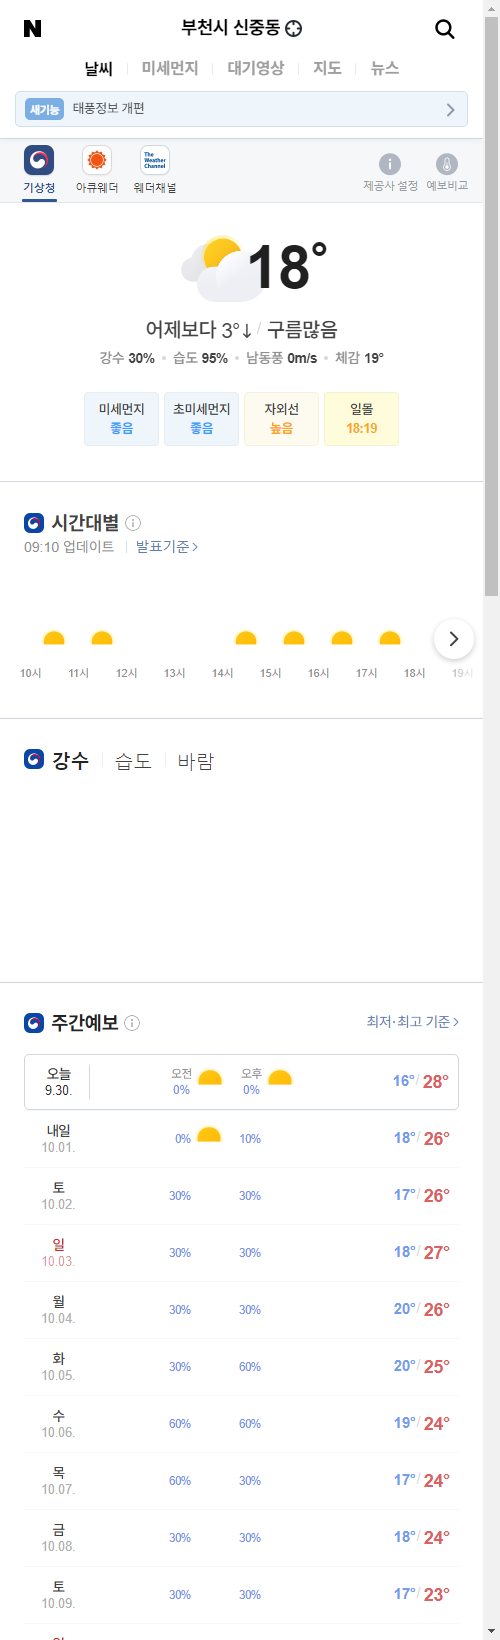
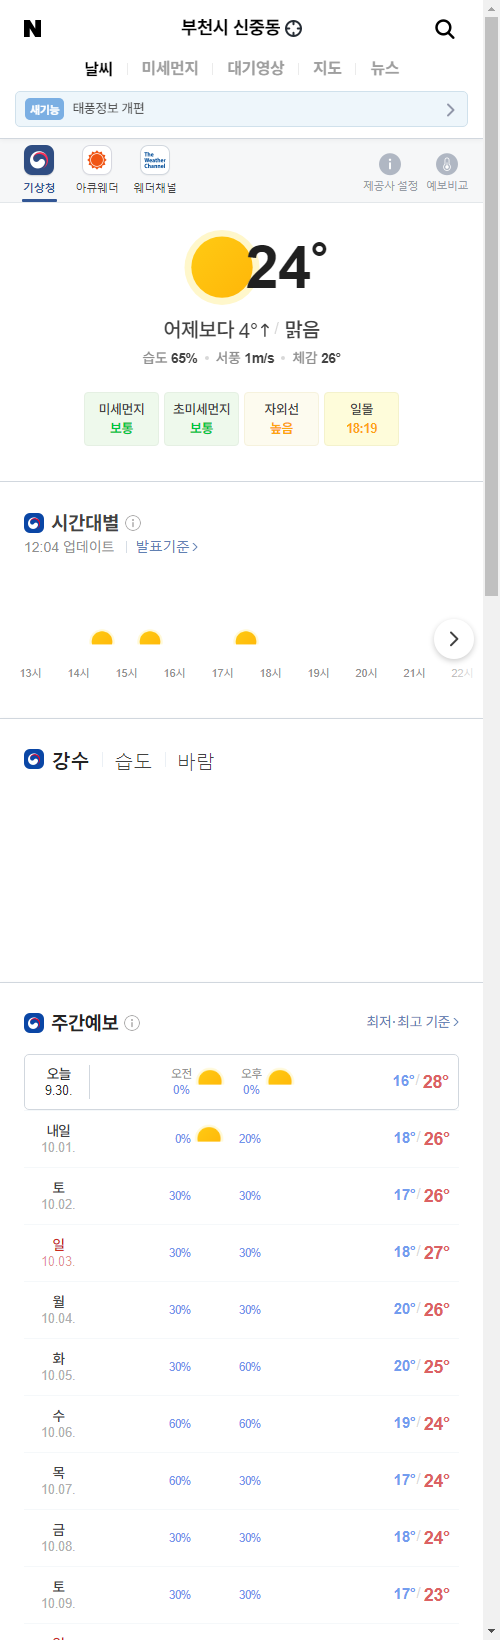
update result

diff --git a/README.md b/README.md
@@ -1,5 +1,5 @@
-##  2021-09-30 09:17:15   목요일 
-##### 날씨   -   어제보다 3° 낮아요구름많음  
+##  2021-09-30 12:07:33   목요일 
+##### 날씨   -   어제보다 4° 높아요맑음  
 <center><img src="../img/naver_weather_week.png"></center>
 ----
 ----
@@ -16,14 +16,14 @@
 <tr align = "right" > <td>DOW</td><td>34,390.72</td><td>90.73</td><td><font size="3" color="red" >0.26%</font></td><td><font size="3" color="black">0</font></td><td><font size="3" color="black">0</font></td><td>0</td>  </tr>
 <tr align = "right" > <td>NASDAQ</td><td>14,512.44</td><td>-34.24</td><td><font size="3" color="blue" >-0.24%</font></td><td><font size="3" color="black">0</font></td><td><font size="3" color="black">0</font></td><td>0</td>  </tr>
 <tr align = "right" > <td>S&P</td><td>4,359.46</td><td>6.83</td><td><font size="3" color="red" >0.16%</font></td><td><font size="3" color="black">0</font></td><td><font size="3" color="black">0</font></td><td>0</td>  </tr>
-<tr align = "right" > <td>SHANHAI</td><td>3,536.29</td><td>-65.92</td><td><font size="3" color="blue" >-1.83%</font></td><td><font size="3" color="black">0</font></td><td><font size="3" color="black">0</font></td><td>0</td>  </tr>
+<tr align = "right" > <td>SHANHAI</td><td>3,548.84</td><td>12.55</td><td><font size="3" color="red" >0.35%</font></td><td><font size="3" color="black">0</font></td><td><font size="3" color="black">0</font></td><td>0</td>  </tr>
 <tr align = "right" > <td>INDIA</td><td>59,413.27</td><td>-254.33</td><td><font size="3" color="blue" >-0.43%</font></td><td><font size="3" color="black">0</font></td><td><font size="3" color="black">0</font></td><td>0</td>  </tr>
 </table>
 ----
 ##### 시장
 <table border="1" bordercolor="blue" align = "center" >
 <tr align = "right" > <td>Item</td><td>Price</td><td>Diff</td><td>Rate</td><td>Buy</td><td>Sell</td><td>...</td>  </tr>
-<tr align = "right" > <td>USD</td><td>1,185.0</td><td>0.8</td><td><font size="3" color="red">0.07%</font></td><td><font size="3" color="black">1,110</font></td><td><font size="3" color="black">0</font></td><td>0</td>  </tr>
+<tr align = "right" > <td>USD</td><td>1,183.0</td><td>-1.3</td><td><font size="3" color="blue">-0.11%</font></td><td><font size="3" color="black">1,110</font></td><td><font size="3" color="black">0</font></td><td>0</td>  </tr>
 <tr align = "right" > <td>WTI</td><td>74.83</td><td>-0.46</td><td><font size="3" color="blue">-0.61%</font></td><td><font size="3" color="black">29.0</font></td><td><font size="3" color="black">0</font></td><td>0</td>  </tr>
 <tr align = "right" > <td>GOLD</td><td>1,721.0</td><td>-14.4</td><td><font size="3" color="blue">-0.82%</font></td><td><font size="3" color="black">0</font></td><td><font size="3" color="black">0</font></td><td>0</td>  </tr>
 </table>
@@ -31,33 +31,33 @@
 ##### 주가
 <table border="1" bordercolor="blue" align = "center" >
 <tr align = "right" > <td>Item</td><td>Price</td><td>Diff</td><td>Rate</td><td>Purchased</td><td>Sell</td><td>Buy</td>  </tr>
-<tr align = "right" > <td>한국 전력</td><td>23,550</td><td>-100</td><td><font size="3" color="blue">-0.42%</font></td><td>25,720</td><td><font size="3" color="black">27,700</font></td><td><font size="3" color="black">20,700</font></td>  </tr>
-<tr align = "right" > <td>삼성엔지니어.</td><td>26,650</td><td>500</td><td><font size="3" color="red">1.91%</font></td><td>18,935</td><td><font size="3" color="black">20,000</font></td><td><font size="3" color="black">8,000</font></td>  </tr>
-<tr align = "right" > <td>CJ CGV</td><td>29,250</td><td>-350</td><td><font size="3" color="blue">-1.18%</font></td><td>34,895</td><td><font size="3" color="black">36,000</font></td><td><font size="3" color="black">0</font></td>  </tr>
+<tr align = "right" > <td>한국 전력</td><td>23,500</td><td>-150</td><td><font size="3" color="blue">-0.63%</font></td><td>25,720</td><td><font size="3" color="black">27,700</font></td><td><font size="3" color="black">20,700</font></td>  </tr>
+<tr align = "right" > <td>삼성엔지니어.</td><td>25,550</td><td>-600</td><td><font size="3" color="blue">-2.29%</font></td><td>18,935</td><td><font size="3" color="black">20,000</font></td><td><font size="3" color="black">8,000</font></td>  </tr>
+<tr align = "right" > <td>CJ CGV</td><td>29,750</td><td>150</td><td><font size="3" color="red">0.51%</font></td><td>34,895</td><td><font size="3" color="black">36,000</font></td><td><font size="3" color="black">0</font></td>  </tr>
 <tr align = "right" > <td>아모레퍼시픽</td><td>178,500</td><td>-1,500</td><td><font size="3" color="blue">-0.83%</font></td><td>180,000</td><td><font size="3" color="black">240,000</font></td><td><font size="3" color="black">130,000</font></td>  </tr>
-<tr align = "right" > <td>한화</td><td>33,950</td><td>-200</td><td><font size="3" color="blue">-0.59%</font></td><td>25,550</td><td><font size="3" color="black">26,250</font></td><td><font size="3" color="black">26,250</font></td>  </tr>
-<tr align = "right" > <td>NAVER</td><td>381,500</td><td>-5,500</td><td><font size="3" color="blue">-1.42%</font></td><td>147,200</td><td><font size="3" color="black">386,000</font></td><td><font size="3" color="black">286,000</font></td>  </tr>
-<tr align = "right" > <td>LG 화학우</td><td>373,000</td><td>-3,500</td><td><font size="3" color="blue">-0.93%</font></td><td>202,490</td><td><font size="3" color="black">384,000</font></td><td><font size="3" color="orangered">384,000</font></td>  </tr>
-<tr align = "right" > <td>스튜디오드래.</td><td>87,600</td><td>0</td><td><font size="3" color="black">0.0%</font></td><td>81,243</td><td><font size="3" color="black">85,200</font></td><td><font size="3" color="black">85,200</font></td>  </tr>
-<tr align = "right" > <td>QV미국IT</td><td>30,945</td><td>-125</td><td><font size="3" color="blue">-0.4%</font></td><td>0</td><td><font size="3" color="black">30,000</font></td><td><font size="3" color="black">20,000</font></td>  </tr>
-<tr align = "right" > <td>삼성 전자우</td><td>69,300</td><td>-1,200</td><td><font size="3" color="blue">-1.7%</font></td><td>60,675</td><td><font size="3" color="black">76,000</font></td><td><font size="3" color="black">55,000</font></td>  </tr>
-<tr align = "right" > <td>LS</td><td>63,600</td><td>0</td><td><font size="3" color="black">0.0%</font></td><td>71,900</td><td><font size="3" color="black">82,000</font></td><td><font size="3" color="black">60,000</font></td>  </tr>
-<tr align = "right" > <td>한화에어로스.</td><td>48,650</td><td>250</td><td><font size="3" color="red">0.52%</font></td><td>25,700</td><td><font size="3" color="black">30,000</font></td><td><font size="3" color="black">24,000</font></td>  </tr>
-<tr align = "right" > <td>세틀뱅크</td><td>31,250</td><td>0</td><td><font size="3" color="black">0.0%</font></td><td>35,078</td><td><font size="3" color="black">40,000</font></td><td><font size="3" color="black">25,000</font></td>  </tr>
-<tr align = "right" > <td>한화시스템.</td><td>17,400</td><td>-250</td><td><font size="3" color="blue">-1.42%</font></td><td>16,875</td><td><font size="3" color="black">30,000</font></td><td><font size="3" color="black">14,000</font></td>  </tr>
-<tr align = "right" > <td>카카오</td><td>115,000</td><td>-1,500</td><td><font size="3" color="blue">-1.29%</font></td><td>405,500</td><td><font size="3" color="black">440,000</font></td><td><font size="3" color="orangered">400,000</font></td>  </tr>
-<tr align = "right" > <td>호텔 신라</td><td>85,700</td><td>-800</td><td><font size="3" color="blue">-0.92%</font></td><td>88,650</td><td><font size="3" color="black">100,000</font></td><td><font size="3" color="black">70,000</font></td>  </tr>
-<tr align = "right" > <td>S-Oil</td><td>108,000</td><td>-4,000</td><td><font size="3" color="blue">-3.57%</font></td><td>62,842</td><td><font size="3" color="black">100,000</font></td><td><font size="3" color="black">50,000</font></td>  </tr>
-<tr align = "right" > <td>LG전자</td><td>125,500</td><td>-4,000</td><td><font size="3" color="blue">-3.09%</font></td><td>82,022</td><td><font size="3" color="black">100,000</font></td><td><font size="3" color="black">60,000</font></td>  </tr>
-<tr align = "right" > <td>KT&G</td><td>80,600</td><td>100</td><td><font size="3" color="red">0.12%</font></td><td>79,700</td><td><font size="3" color="black">100,000</font></td><td><font size="3" color="black">70,000</font></td>  </tr>
-<tr align = "right" > <td>지역난방공사</td><td>44,200</td><td>-750</td><td><font size="3" color="blue">-1.67%</font></td><td>43,590</td><td><font size="3" color="black">60,000</font></td><td><font size="3" color="black">30,000</font></td>  </tr>
+<tr align = "right" > <td>한화</td><td>34,250</td><td>100</td><td><font size="3" color="red">0.29%</font></td><td>25,550</td><td><font size="3" color="black">26,250</font></td><td><font size="3" color="black">26,250</font></td>  </tr>
+<tr align = "right" > <td>NAVER</td><td>388,000</td><td>1,000</td><td><font size="3" color="red">0.26%</font></td><td>147,200</td><td><font size="3" color="black">386,000</font></td><td><font size="3" color="black">286,000</font></td>  </tr>
+<tr align = "right" > <td>LG 화학우</td><td>371,500</td><td>-5,000</td><td><font size="3" color="blue">-1.33%</font></td><td>202,490</td><td><font size="3" color="black">384,000</font></td><td><font size="3" color="orangered">384,000</font></td>  </tr>
+<tr align = "right" > <td>스튜디오드래.</td><td>89,300</td><td>1,700</td><td><font size="3" color="red">1.94%</font></td><td>81,243</td><td><font size="3" color="black">85,200</font></td><td><font size="3" color="black">85,200</font></td>  </tr>
+<tr align = "right" > <td>QV미국IT</td><td>31,005</td><td>-65</td><td><font size="3" color="blue">-0.21%</font></td><td>0</td><td><font size="3" color="black">30,000</font></td><td><font size="3" color="black">20,000</font></td>  </tr>
+<tr align = "right" > <td>삼성 전자우</td><td>69,500</td><td>-1,000</td><td><font size="3" color="blue">-1.42%</font></td><td>60,675</td><td><font size="3" color="black">76,000</font></td><td><font size="3" color="black">55,000</font></td>  </tr>
+<tr align = "right" > <td>LS</td><td>63,500</td><td>-100</td><td><font size="3" color="blue">-0.16%</font></td><td>71,900</td><td><font size="3" color="black">82,000</font></td><td><font size="3" color="black">60,000</font></td>  </tr>
+<tr align = "right" > <td>한화에어로스.</td><td>49,250</td><td>850</td><td><font size="3" color="red">1.76%</font></td><td>25,700</td><td><font size="3" color="black">30,000</font></td><td><font size="3" color="black">24,000</font></td>  </tr>
+<tr align = "right" > <td>세틀뱅크</td><td>31,300</td><td>50</td><td><font size="3" color="red">0.16%</font></td><td>35,078</td><td><font size="3" color="black">40,000</font></td><td><font size="3" color="black">25,000</font></td>  </tr>
+<tr align = "right" > <td>한화시스템.</td><td>17,500</td><td>-150</td><td><font size="3" color="blue">-0.85%</font></td><td>16,875</td><td><font size="3" color="black">30,000</font></td><td><font size="3" color="black">14,000</font></td>  </tr>
+<tr align = "right" > <td>카카오</td><td>119,000</td><td>2,500</td><td><font size="3" color="red">2.15%</font></td><td>405,500</td><td><font size="3" color="black">440,000</font></td><td><font size="3" color="orangered">400,000</font></td>  </tr>
+<tr align = "right" > <td>호텔 신라</td><td>86,300</td><td>-200</td><td><font size="3" color="blue">-0.23%</font></td><td>88,650</td><td><font size="3" color="black">100,000</font></td><td><font size="3" color="black">70,000</font></td>  </tr>
+<tr align = "right" > <td>S-Oil</td><td>111,500</td><td>-500</td><td><font size="3" color="blue">-0.45%</font></td><td>62,842</td><td><font size="3" color="black">100,000</font></td><td><font size="3" color="black">50,000</font></td>  </tr>
+<tr align = "right" > <td>LG전자</td><td>128,000</td><td>-1,500</td><td><font size="3" color="blue">-1.16%</font></td><td>82,022</td><td><font size="3" color="black">100,000</font></td><td><font size="3" color="black">60,000</font></td>  </tr>
+<tr align = "right" > <td>KT&G</td><td>81,100</td><td>600</td><td><font size="3" color="red">0.75%</font></td><td>79,700</td><td><font size="3" color="black">100,000</font></td><td><font size="3" color="black">70,000</font></td>  </tr>
+<tr align = "right" > <td>지역난방공사</td><td>44,300</td><td>-650</td><td><font size="3" color="blue">-1.45%</font></td><td>43,590</td><td><font size="3" color="black">60,000</font></td><td><font size="3" color="black">30,000</font></td>  </tr>
 <tr align = "right" > <td>맥쿼리인프라</td><td>12,700</td><td>0</td><td><font size="3" color="black">0.0%</font></td><td>12,577</td><td><font size="3" color="black">30,000</font></td><td><font size="3" color="black">10,000</font></td>  </tr>
-<tr align = "right" > <td>KOEDX은행</td><td>7,600</td><td>40</td><td><font size="3" color="red">0.53%</font></td><td>7,578</td><td><font size="3" color="black">8,825</font></td><td><font size="3" color="black">6,225</font></td>  </tr>
-<tr align = "right" > <td>글로벌럭셔리</td><td>17,680</td><td>35</td><td><font size="3" color="red">0.2%</font></td><td>16,302</td><td><font size="3" color="black">20,000</font></td><td><font size="3" color="black">10,000</font></td>  </tr>
-<tr align = "right" > <td>TIRGER200건설</td><td>3,340</td><td>10</td><td><font size="3" color="red">0.3%</font></td><td>3,440</td><td><font size="3" color="black">4,000</font></td><td><font size="3" color="black">3,000</font></td>  </tr>
-<tr align = "right" > <td>KODEXK미래차</td><td>10,590</td><td>-120</td><td><font size="3" color="blue">-1.12%</font></td><td>10,955</td><td><font size="3" color="black">20,000</font></td><td><font size="3" color="black">10,000</font></td>  </tr>
-<tr align = "right" > <td>TIGER글로벌BBIG</td><td>11,590</td><td>-10</td><td><font size="3" color="blue">-0.09%</font></td><td>11,020</td><td><font size="3" color="black">20,000</font></td><td><font size="3" color="black">10,000</font></td>  </tr>
-<tr align = "right" > <td>TIGER퓨처모빌리티</td><td>11,475</td><td>-295</td><td><font size="3" color="blue">-2.51%</font></td><td>10,695</td><td><font size="3" color="black">20,000</font></td><td><font size="3" color="black">10,000</font></td>  </tr>
-<tr align = "right" > <td>한국금융지주</td><td>84,800</td><td>1,000</td><td><font size="3" color="red">1.19%</font></td><td>0</td><td><font size="3" color="black">82,000</font></td><td><font size="3" color="black">60,000</font></td>  </tr>
+<tr align = "right" > <td>KOEDX은행</td><td>7,615</td><td>55</td><td><font size="3" color="red">0.73%</font></td><td>7,578</td><td><font size="3" color="black">8,825</font></td><td><font size="3" color="black">6,225</font></td>  </tr>
+<tr align = "right" > <td>글로벌럭셔리</td><td>17,670</td><td>25</td><td><font size="3" color="red">0.14%</font></td><td>16,302</td><td><font size="3" color="black">20,000</font></td><td><font size="3" color="black">10,000</font></td>  </tr>
+<tr align = "right" > <td>TIRGER200건설</td><td>3,330</td><td>0</td><td><font size="3" color="black">0.0%</font></td><td>3,440</td><td><font size="3" color="black">4,000</font></td><td><font size="3" color="black">3,000</font></td>  </tr>
+<tr align = "right" > <td>KODEXK미래차</td><td>10,620</td><td>-90</td><td><font size="3" color="blue">-0.84%</font></td><td>10,955</td><td><font size="3" color="black">20,000</font></td><td><font size="3" color="black">10,000</font></td>  </tr>
+<tr align = "right" > <td>TIGER글로벌BBIG</td><td>11,630</td><td>30</td><td><font size="3" color="red">0.26%</font></td><td>11,020</td><td><font size="3" color="black">20,000</font></td><td><font size="3" color="black">10,000</font></td>  </tr>
+<tr align = "right" > <td>TIGER퓨처모빌리티</td><td>11,555</td><td>-215</td><td><font size="3" color="blue">-1.83%</font></td><td>10,695</td><td><font size="3" color="black">20,000</font></td><td><font size="3" color="black">10,000</font></td>  </tr>
+<tr align = "right" > <td>한국금융지주</td><td>84,700</td><td>900</td><td><font size="3" color="red">1.07%</font></td><td>0</td><td><font size="3" color="black">82,000</font></td><td><font size="3" color="black">60,000</font></td>  </tr>
 </table>
 ----
